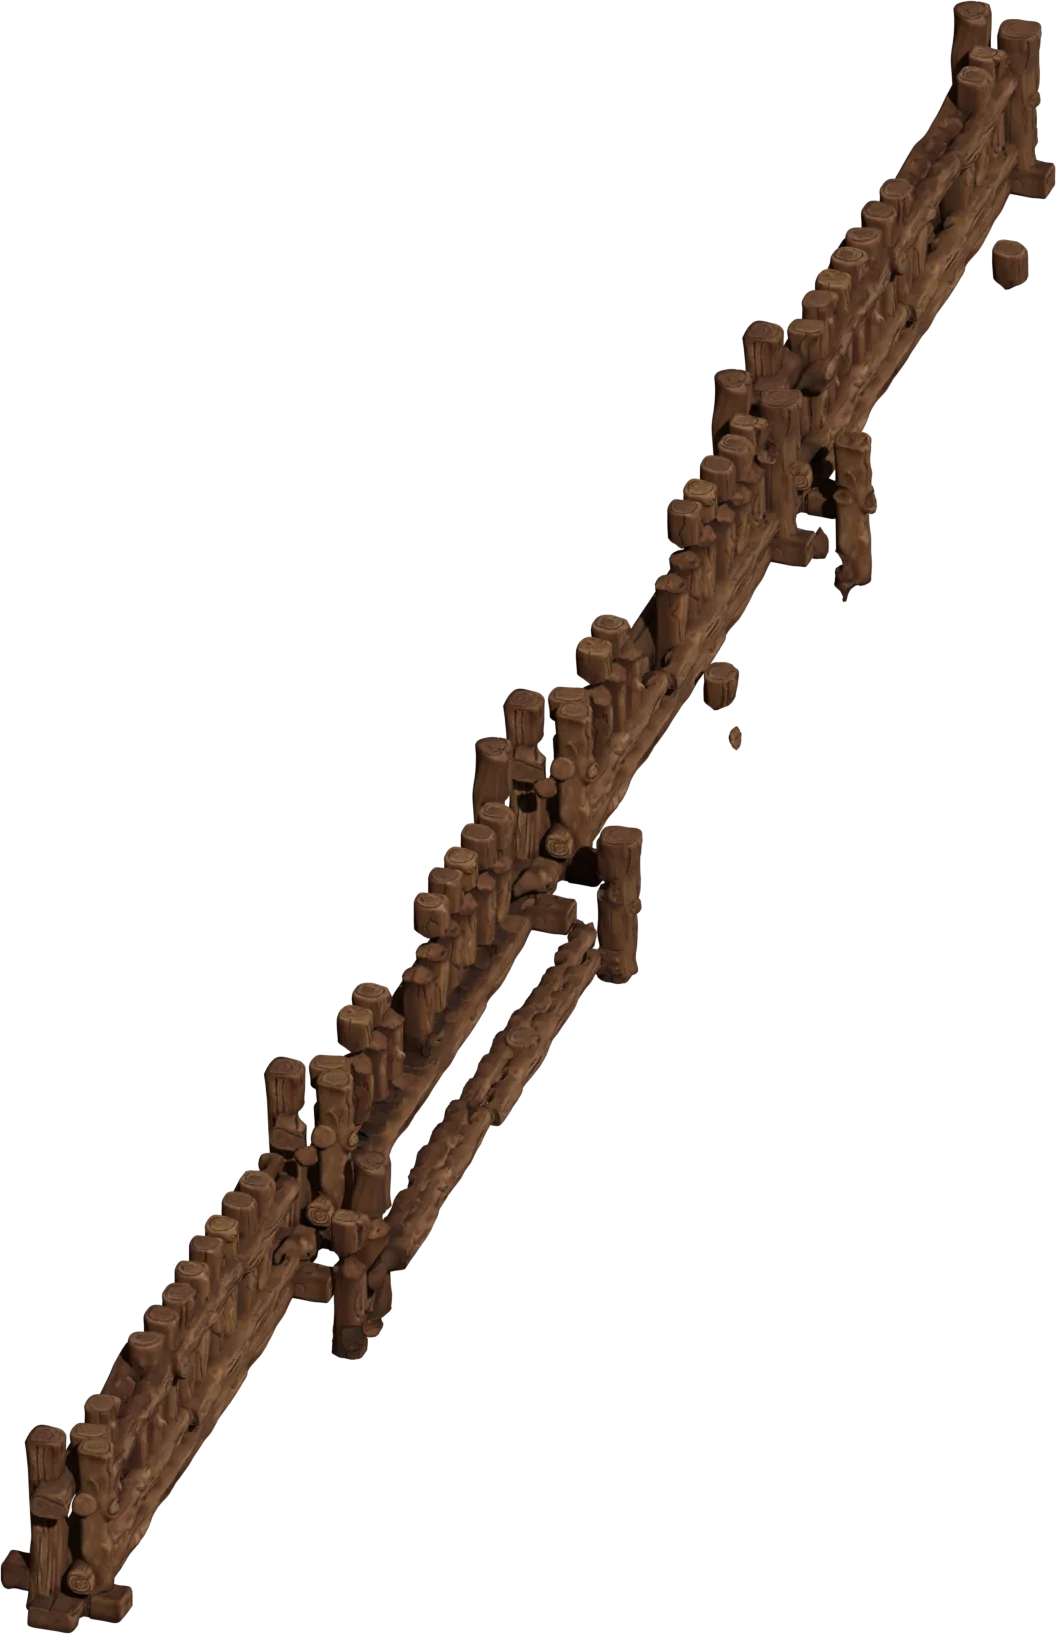
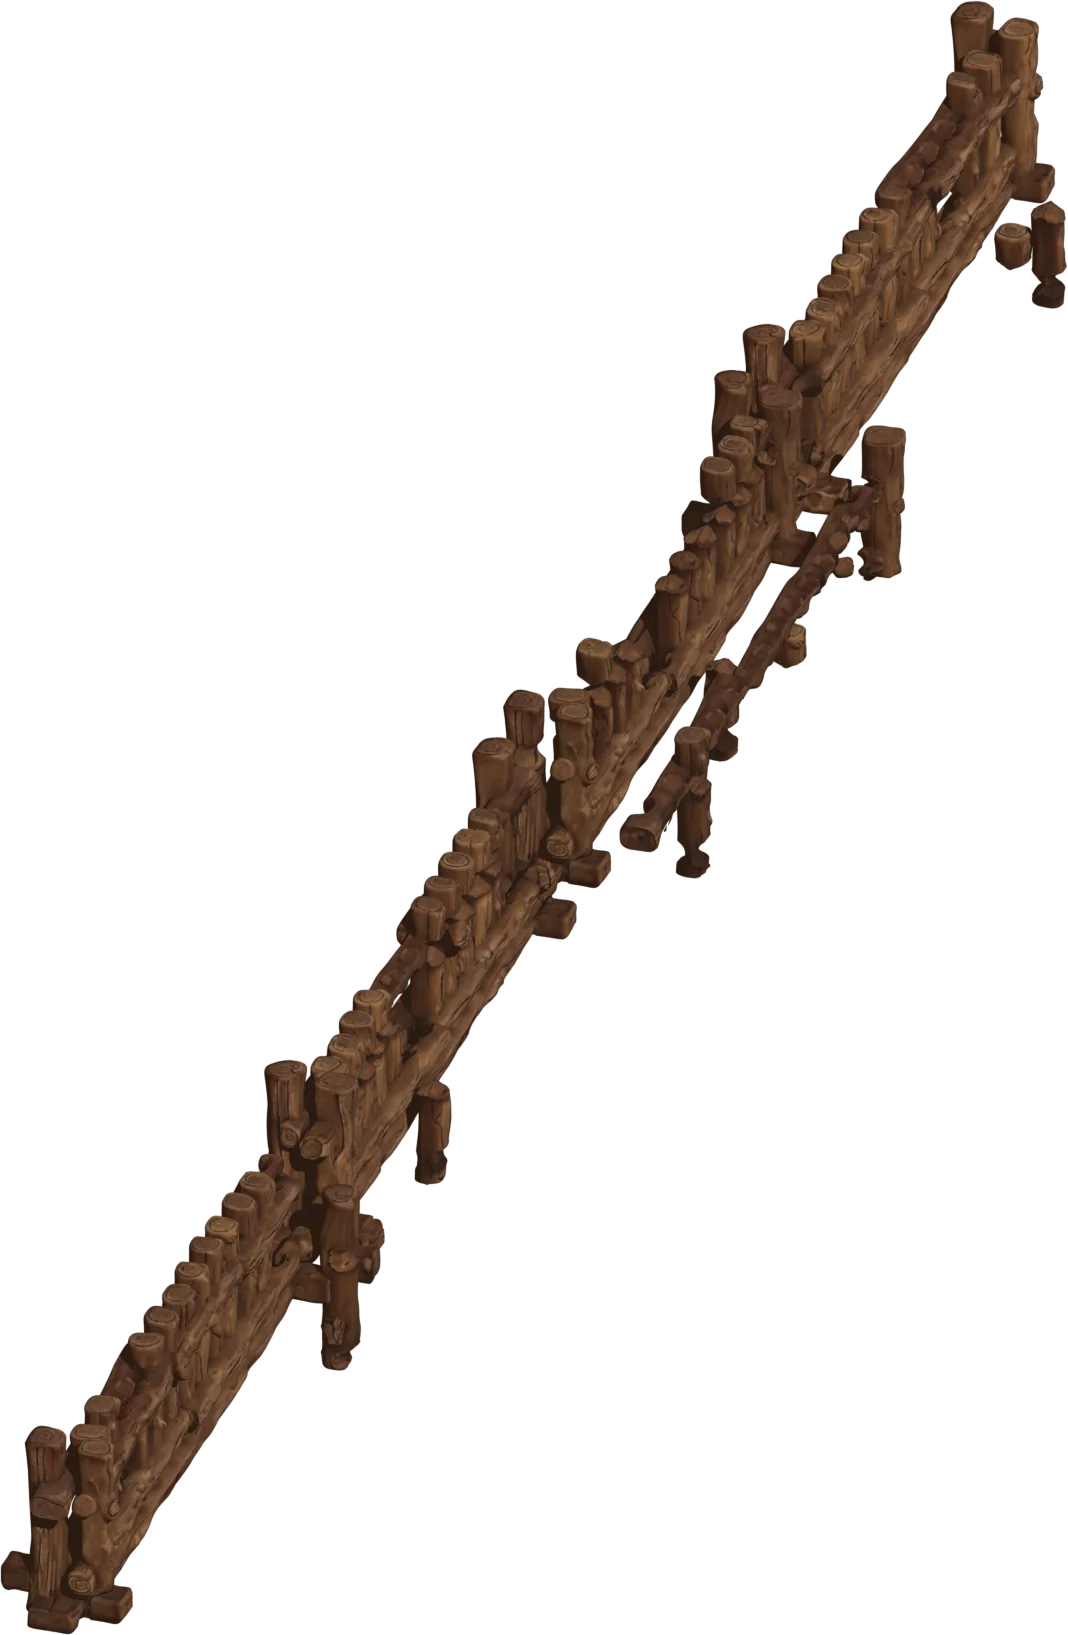
render: wall defect fixes, re-rendered stages (TB-239)

diff --git a/src/data/presentation.ts b/src/data/presentation.ts
@@ -131,12 +131,12 @@ export const GROUND = {
   /** Fence barricade (director 2 Nov, Sketchfab "the fence"): panel draw width, vertical step between stacked panels (units). */
 } as const;
 
-/** The wall's look per tier (TB-209): image set (rendered from the segmented Tripo models, one image per damage stage), field placement, and the field y of the rendered breaches. */
+/** The wall's look per tier (TB-209): image set (rendered from the segmented Tripo models, one image per damage stage), field placement, the field y of the rendered breaches, and the palette tokens of its flying chunks. */
 export const WALL_ART = [
-  { key: 'wall0', x: -167.0, y: 106.4, w: 495.0, h: 765.9, breaches: [623, 548, 450, 350, 234] },
-  { key: 'wall1', x: -145.5, y: 105.5, w: 499.2, h: 738.3, breaches: [605, 533, 440, 343, 232] },
-  { key: 'wall2', x: -123.0, y: 99.8, w: 471.1, h: 713.9, breaches: [585, 516, 427, 336, 229] },
-  { key: 'wall3', x: -72.8, y: 100.3, w: 415.3, h: 634.2, breaches: [609, 535, 475, 396, 316, 223] },
+  { key: 'wall0', x: -167.0, y: 105.9, w: 500.6, h: 766.4, breaches: [623, 548, 450, 350, 234], chunks: ['wallPalisade', 'wallPalisadeDark'] },
+  { key: 'wall1', x: -145.5, y: 101.7, w: 493.1, h: 742.0, breaches: [605, 533, 440, 343, 232], chunks: ['wallBattle', 'wallBattleDark'] },
+  { key: 'wall2', x: -123.0, y: 120.0, w: 472.5, h: 696.6, breaches: [585, 516, 427, 336, 229], chunks: ['wallStone', 'wallStoneDark'] },
+  { key: 'wall3', x: -72.8, y: 100.3, w: 425.2, h: 647.8, breaches: [609, 535, 475, 396, 316, 223], chunks: ['wallHeart', 'wallHeartDark'] },
 ] as const;
 
 /** The wall's visible damage (TB-238, TB-209). stages: the health fractions below which the next rendered stage shows. Debris on a stage change: chunks per breach, speed, life, size, spin, gravity. Dust: puffs per breach, per blow, speed, life, radius, growth/s, alpha.

diff --git a/src/render/field.ts b/src/render/field.ts
@@ -339,7 +339,7 @@ export class FieldRenderer {
     // aerial haze over the wood and the back rows, on top of every actor there, so a far orc is as soft as the trees behind it (TB-232)
     const hz = this.sky.haze(g, vis.x0, this.skyLine, vis.x1);
     // the barricade is the nearest prop and takes no distance haze: its panels inside the haze band are drawn again over it
-    if (hz > this.wallTop) { g.save(); g.beginPath(); g.rect(0, this.wallTop - 4, W, hz - this.wallTop + 4); g.clip(); this.fencePanels(this.wallTop, hz); g.restore(); }
+    this.fencePanels(this.wallTop, hz);  // from the art's own top, which stands above wallTop
 
     // effects never rise into the sky band over the HUD: the world effects are clipped to the field below the crown line
     g.save(); g.beginPath(); g.rect(vis.x0 - 50, this.skyBand, vis.x1 - vis.x0 + 100, H - this.skyBand + 50); g.clip();
@@ -431,7 +431,7 @@ export class FieldRenderer {
     const g = this.g, L = WALL_ART[this.sim?.stats.wallTier ?? 0] ?? WALL_ART[0], fence = decorImg(`${L.key}_${this.wallDamage.stage}`) ?? decorImg(`${L.key}_0`);
     if (fence) {
       const k = fence.width / L.w, h = Math.min(yMax, L.y + L.h) - L.y;
-      g.drawImage(fence, 0, 0, fence.width, h * k, L.x, L.y, L.w, h);
+      if (h > 0) g.drawImage(fence, 0, 0, fence.width, h * k, L.x, L.y, L.w, h);
     } else for (let y = top - ((top % 18) + 18) % 18; y < yMax; y += 18) {
       const wx = wallX(y) - BAR_W;
       g.fillStyle = y % 36 ? P.timber : P.timberDark;

diff --git a/src/render/palette.ts b/src/render/palette.ts
@@ -19,6 +19,8 @@ export const P = {
   lamp: 'rgba(226,168,91,.2)', lampClear: 'rgba(226,168,91,0)',
   frost: '#bfe3ee', frostGlow: 'rgba(191,227,238,.45)', spark: '#f4eaa6', arcane: '#9b6bd6', arcaneCore: '#ece8ff',
   wallDust: '#cdbf9f',
+  // flying wall chunks, sampled from each wall's render (TB-239)
+  wallPalisade: '#6c4a33', wallPalisadeDark: '#553826', wallBattle: '#5e4333', wallBattleDark: '#4a3427', wallStone: '#6e614b', wallStoneDark: '#584e3c', wallHeart: '#50251f', wallHeartDark: '#401c17',
   fire: '#f2763a', fireTint: 'rgba(242,118,58,.5)', firePatch: 'rgba(242,118,58,.28)', frostTint: 'rgba(150,215,240,.6)', frostPatch: 'rgba(191,227,238,.35)',
   sparkGlow: 'rgba(244,234,166,.65)', arcaneGlow: 'rgba(155,107,214,.45)', starGold: '#ffd36b',
   /** Shaman fireball (TB-127): ember body, pale core, halo. */

diff --git a/src/render/wallDamage.ts b/src/render/wallDamage.ts
@@ -33,7 +33,7 @@ export class WallDamage {
 
   private collapse(y: number): void {
     const x = wallX(y);
-    for (let i = 0; i < D.chunks; i++) this.add(x + Math.random() * 20, y + (Math.random() - 0.5) * 40, (Math.random() + 0.1) * D.chunkSpeed, -Math.random() * D.chunkSpeed, D.chunkLife, D.chunkR[0] + Math.random() * (D.chunkR[1] - D.chunkR[0]), true, i % 2 ? P.timber : P.timberDark);
+    for (let i = 0; i < D.chunks; i++) this.add(x + Math.random() * 20, y + (Math.random() - 0.5) * 40, (Math.random() + 0.1) * D.chunkSpeed, -Math.random() * D.chunkSpeed, D.chunkLife, D.chunkR[0] + Math.random() * (D.chunkR[1] - D.chunkR[0]), true, P[this.art.chunks[i % 2]!]);
     this.dust(x + 10, y, D.puffs);
   }
 

diff --git a/docs/BACKLOG.md b/docs/BACKLOG.md
@@ -289,3 +289,4 @@ Ids are stable (`TB-###`). Status: `todo` · `doing` · `review` · `done <hash>
 | TB-236 | Walk clips match the march (director 5 Nov, slide audit): orcs, vanguard and wolves count ground walked (`walk`, not saved); the walk clip plays one cycle per stride (`GAIT.strideR` x drawn radius, `src/data/presentation.ts`), so feet track chill/rage/drum/spd and stop when stunned. Grunt walk moved to Orc Walk (Sword And Shield Walk limped) | render | 068 | claude | done (this PR) |
 | TB-237 | Canines never rest mid-run (director 9 Nov): the wolf/fox at rest and a wolf rider held in place (pin, root, stun, fallen run) draw attack frame 0, all paws down, instead of an airborne run frame | render | 236 | claude | done (0db7224) |
 | TB-238 | Slanted wall with visible damage (director 9 Nov): the wall runs at 33° on one `wallX(y)` line (`sim/wallLine.ts`, `WALL_LINE`) with the director's stake fence model as its art; chunks break out as health falls, with debris, dust and small flames (`render/wallDamage.ts`, `WALL_DAMAGE`) | render | 209 | claude | done (1b18ac8) |
+| TB-239 | Wall defects (director 9 Nov): nothing hangs in the damage stages, rubble lies flat across the view, mirrored and tinted panels, near-black interiors lifted, haze redraw from the art's top, chunks in each wall's colours (`WALL_ART.chunks`) | render | 209 | claude | done (this PR) |

diff --git a/docs/log/2026-11-09.md b/docs/log/2026-11-09.md
@@ -21,3 +21,8 @@
 - Four new walls built for the slant and game camera, at Timber ranks 0, 3, 6, 10. Damage stages are whole-wall renders with segmented parts removed, a third as rubble on the orc side, instead of cutting the image. Sources: `tide-assets/walls/seg/*_filled.glb`.
 - Director shipped it with these defects known: parts hanging with supports gone, some upright heartwood planks, repeating panel joins, black interior patches, haze on the wall top. Unchecked: phone view, companion posts, ground decor gap at x 150, forest orcs on the hidden wall line, a live stage change.
 - Tripo parts come hollow: Fill Parts Quick Cap (free) before export. Wait for the export download before navigating or the GLB is cut off.
+
+## TB-239 wall defects
+- Re-rendered all four walls with a support check, flat rubble, mirrored tinted panels and lifted darks; no Tripo credits. Haze redraw now starts at the art's top; chunks use sampled per-wall tokens.
+- Still open: some tall pieces stand on the orc side (not confirmed remnant or rubble), the pattern repeats every two panels, phone view unchecked.
+- Rubble lying along the view axis still reads as standing: yaw it across the view.
